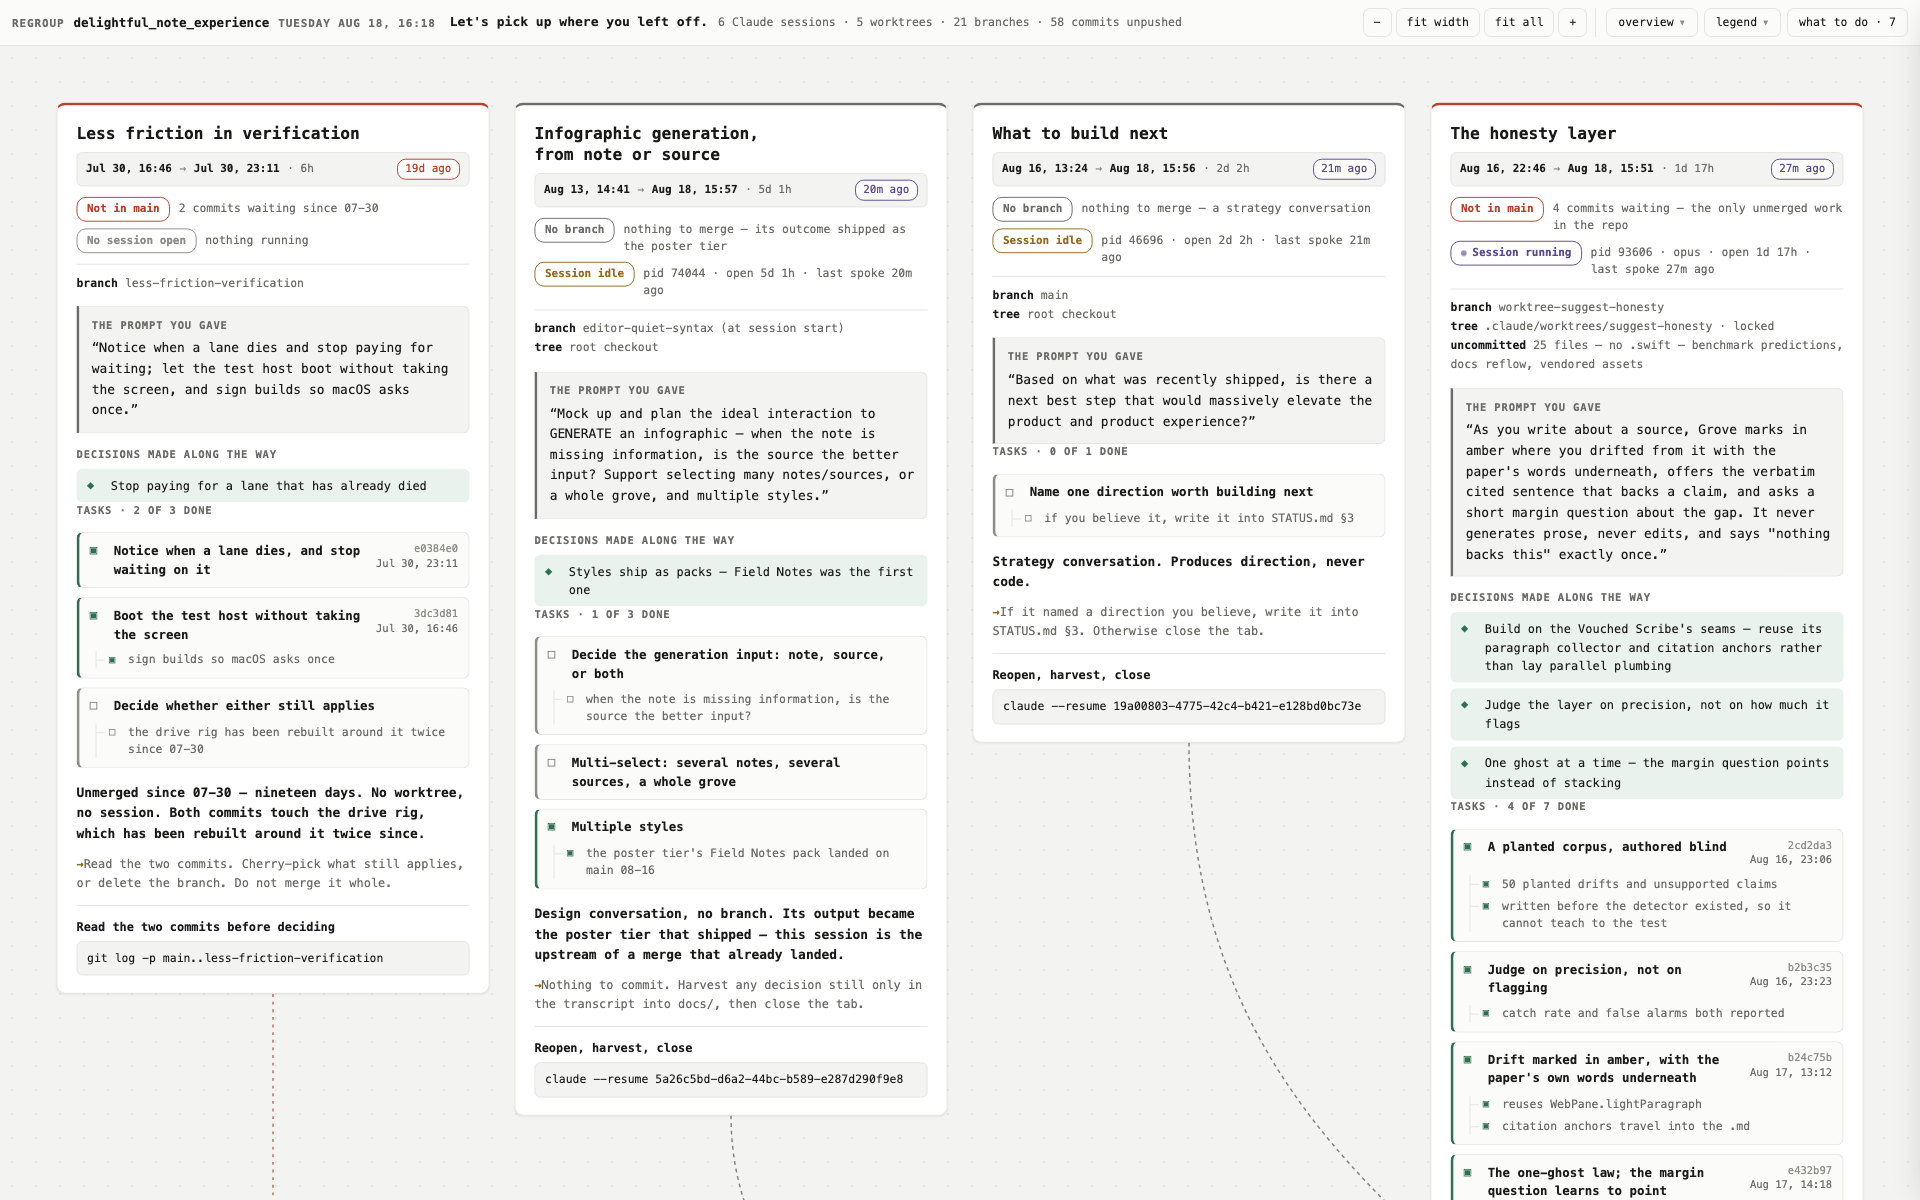
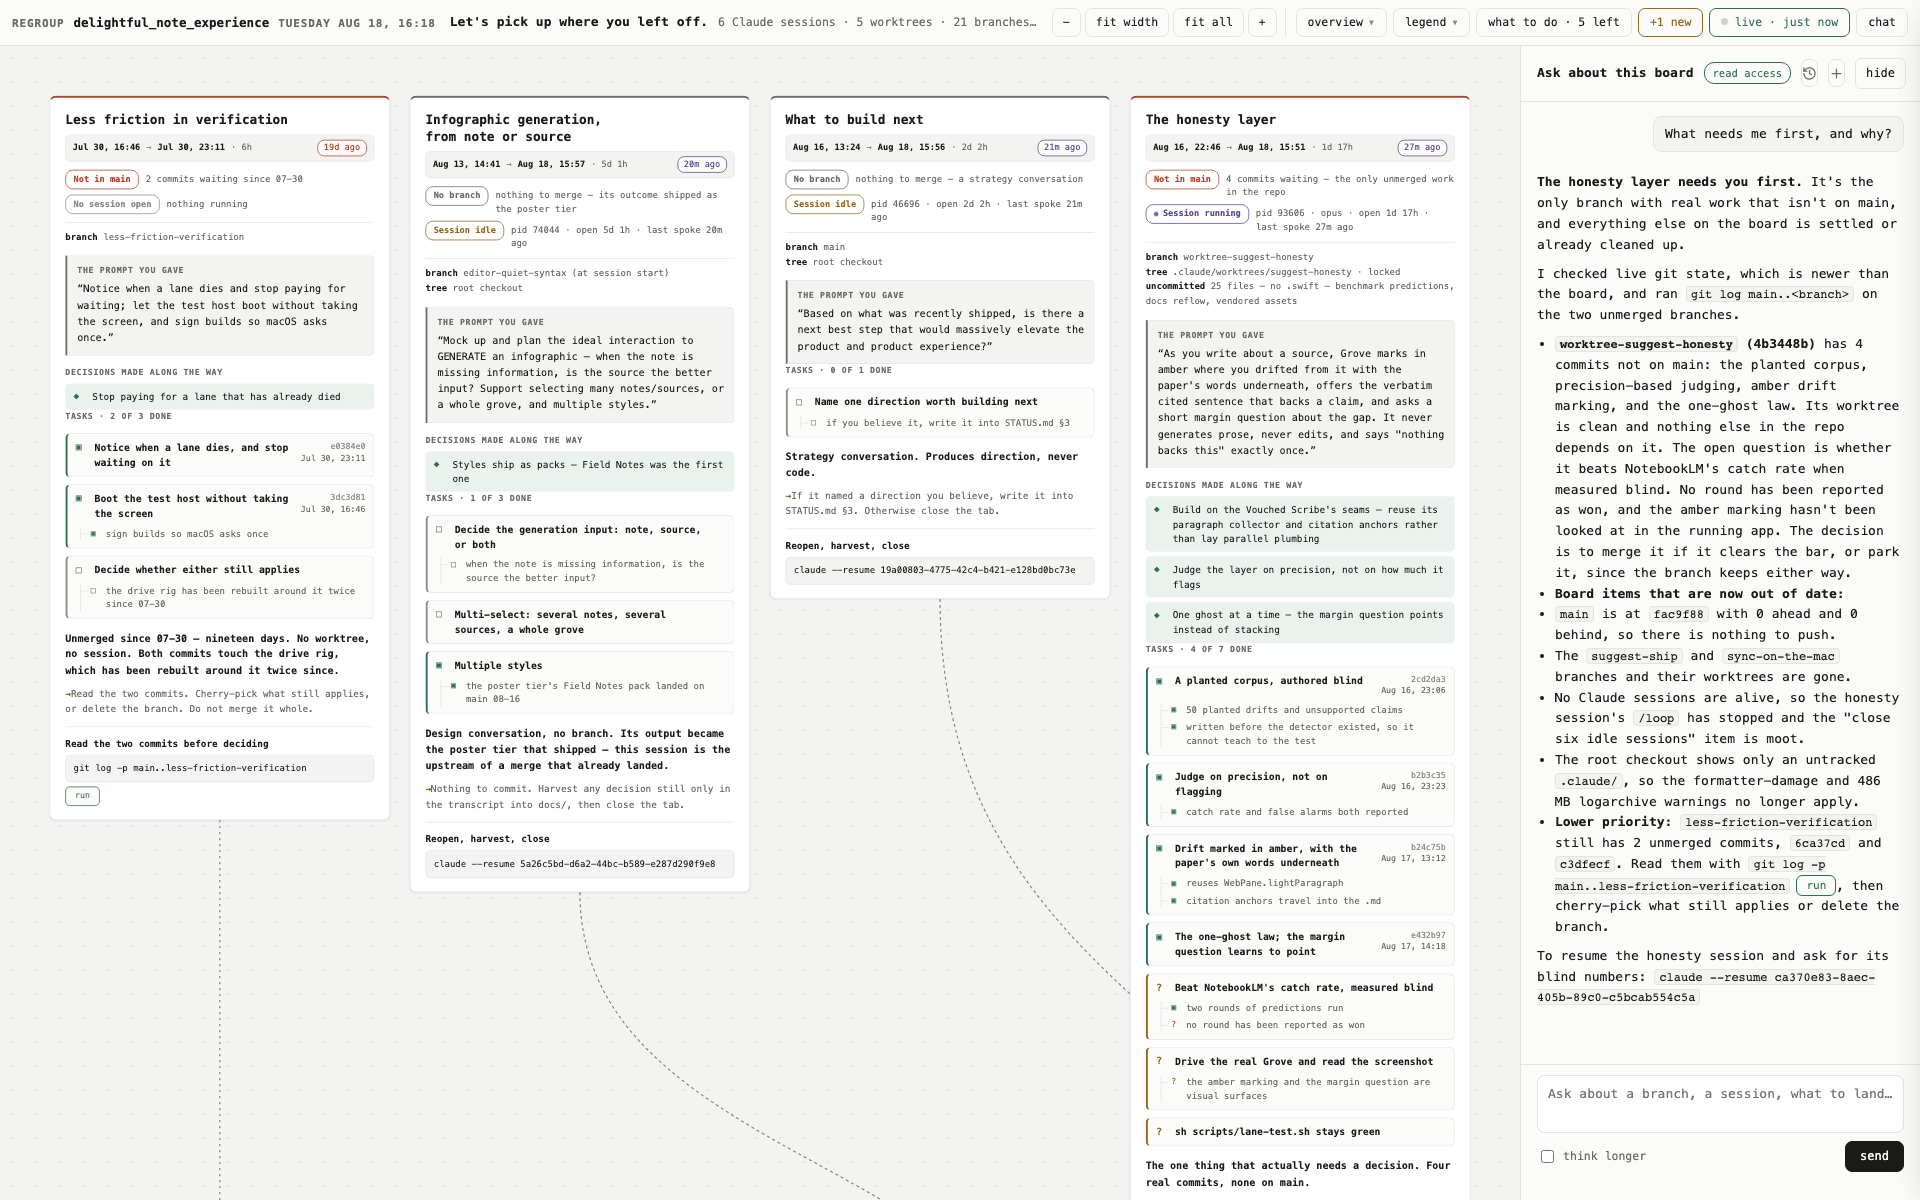
README: screenshots of the live board; fix two serve.py bugs
New screenshots show the board as /regroup serves it: run buttons, the
chat panel, the live and +N new indicators, the what-to-do drawer, and
hatched done cards. README text and alt text describe them.

Taking them turned up two bugs:
- A card's command was refused with "not a command on this board" when
  a branch name contained less, more or top (less-friction-verification).
  The pager and editor check now matches only at command position.
- A reopened saved chat showed the raw [[focus:<id>]] marker. The marker
  is now stripped before the chat is saved.

Both have tests.

diff --git a/tests/test_serve.py b/tests/test_serve.py
@@ -39,7 +39,9 @@ class Interactive(unittest.TestCase):
                     'git commit -m "x"',
                     "git cherry-pick origin/evals && git log -1 --format=%B | "
                     "grep -v -e Co-Authored-By -e Claude-Session | git commit --amend -F -",
-                    "git log --oneline -3 main"]:
+                    "git log --oneline -3 main",
+                    "git log -p main..less-friction-verification",
+                    "git branch -D more-tests top-bar"]:
             with self.subTest(cmd=cmd):
                 self.assertFalse(serve.interactive(cmd))
 
@@ -88,6 +90,20 @@ class BoardCommands(unittest.TestCase):
                                 {"act": {"cmd": "git show x:y | less"}},
                                 {}]}
         self.assertEqual(serve.runnable(data), {"git push origin main", "git branch -D list"})
+
+
+class SavedChats(unittest.TestCase):
+    """A reopened chat shows the answer as it was read, without the focus marker."""
+
+    def test_focus_marker_is_not_saved(self):
+        import json
+        import tempfile
+        with tempfile.TemporaryDirectory() as d:
+            board = Path(d) / "regroup.json"
+            serve.save_chat(board, "c1", [{"role": "user", "content": "What first?"}],
+                            "The honesty layer.\n\n[[focus:honesty]]")
+            saved = json.loads((Path(d) / "chats" / "c1.json").read_text())
+            self.assertEqual(saved["turns"][-1]["content"], "The honesty layer.")
 
 
 if __name__ == "__main__":

diff --git a/scripts/serve.py b/scripts/serve.py
@@ -52,7 +52,7 @@ CHAT_TOOLS = ["Read", "Grep", "Glob",
               "Bash(ls:*)", "Bash(wc:*)"]
 
 
-INTERACTIVE = re.compile(r"^claude\b|\b(less|more|vim?|nano|emacs|top|htop)\b|"
+INTERACTIVE = re.compile(r"^claude\b|(^|[|;&]\s*)(less|more|vim?|nano|emacs|top|htop)(\s|$)|"
                          r"git (rebase|add|checkout|reset|stash) (-i|-p|--interactive|--patch)\b|"
                          r"git commit(?!.*(\s-m|\s-F|--no-edit|--amend -F))")
 
@@ -316,7 +316,7 @@ def save_chat(board, chat_id, turns, answer):
     except (OSError, ValueError):
         old = {"id": cid, "started": int(time.time() * 1000)}
     old["turns"] = [{"role": t["role"], "content": t["content"]} for t in turns] + \
-                   [{"role": "assistant", "content": answer}]
+                   [{"role": "assistant", "content": re.sub(r"\s*\[\[focus:[\w-]+\]\]\s*", " ", answer).strip()}]
     old["title"] = next(t["content"] for t in old["turns"] if t["role"] == "user")[:90]
     old["updated"] = int(time.time() * 1000)
     f.write_text(json.dumps(old, indent=1))

diff --git a/README.md b/README.md
@@ -2,11 +2,11 @@
 
 <p align="center">
   <strong>Pick up where you left off.</strong><br>
-  Every branch, worktree and open Claude Code session in one canvas · what you asked for · whether it landed.
+  Every branch, worktree and open Claude Code session in one live canvas · what you asked for · whether it landed · run the next step from the page.
 </p>
 
 <p align="center">
-  <img src="docs/images/canvas-overview.png" alt="The regroup canvas: four open workstreams above a timeline rail, each showing the prompt that started it, the decisions made, and its tasks and subtasks." width="100%">
+  <img src="docs/images/canvas-overview.png" alt="The regroup board served locally: four open workstreams, each showing the prompt that started it, the decisions made and its tasks, with a run button under a card's command. The top bar shows +1 new and a live indicator; a chat panel on the right answers what needs attention first." width="100%">
 </p>
 
 `git branch` gives you a list of names. This gives you back your own head.
@@ -44,6 +44,8 @@ existed. The board then stays live, and it runs a command only when you click
 ```bash
 git clone https://github.com/seyonv/regroup ~/src/regroup
 python3 ~/src/regroup/scripts/collect.py /path/to/your/repo > state.json
+# write regroup.json from state.json (the skill does this), then:
+python3 ~/src/regroup/scripts/serve.py regroup.json
 ```
 
 Python 3.10+. Standard library only — no dependencies, no build step, nothing to
@@ -62,7 +64,8 @@ but no longer competing for your attention.
 
 The page **is** the canvas. Chrome is one 46px bar across the top and the canvas starts
 below it, so nothing is ever hidden behind a floating panel. Overview, legend and the
-actions drawer open from that bar on demand and dismiss when you touch the canvas.
+actions drawer open from that bar on demand and dismiss when you touch the canvas. The
+chat sits beside the canvas rather than over it, and hides from the same bar.
 
 ### Each card is the context you lost, in four shapes
 
@@ -107,6 +110,8 @@ corner of the canvas and still know exactly when.
 
 ### A live board, served locally
 
+<img src="docs/images/actions-drawer.png" alt="The what-to-do drawer: Push main to origin is struck through because the probe saw main pushed; the next actions have run buttons and mark-done ticks; Retire three finished worktrees is struck through because both branches are gone." width="30%" align="right">
+
 `/regroup` writes the board to `~/.claude/regroup/<repo>/` and opens it on
 `127.0.0.1` from a small standard-library server (`scripts/serve.py`). Leave it open:
 
@@ -129,13 +134,17 @@ corner of the canvas and still know exactly when.
   **+N new**, and work merged on GitHub as **↓N to pull**. Re-run `/regroup` to
   turn new work into cards.
 
+<br clear="right">
+
+<img src="docs/images/chat.png" alt="The chat panel answering What needs me first, and why? It lists the read-only git commands it ran, says the honesty layer needs attention first because its branch holds the only unmerged work, notes which board items are now out of date, and puts a run button beside a git log command. The board has flown to the honesty layer card." width="100%">
+
 Click any card to fly to it at reading size; click again or press Esc to fly back.
 Work from Claude Code cloud sessions (found through the branches they push) carries
 a blue **Claude Code cloud** badge.
 
 ### A control surface, not just a map
 
-<img src="docs/images/trunk-and-tombstones.png" alt="The lower half of the canvas: the main rail with eight merge nodes, tombstones for finished sessions hanging beneath them, and retired worktree cards with their removal commands." width="100%">
+<img src="docs/images/trunk-and-tombstones.png" alt="The lower half of the canvas: the main rail with eight merge nodes, tombstones for finished sessions hanging beneath them, and three retired worktree cards hatched and stamped Done, closed loop, kept for context, their removal commands struck through." width="100%">
 
 Every card carries the one command that acts on it, to copy or run:
 
@@ -167,7 +176,7 @@ matches them by **start time** — process elapsed time from `ps` against the
 transcript's first entry timestamp — claiming nearest-first so two sessions never
 take the same transcript.
 
-On the repo in these screenshots, all 7 processes matched within **4 seconds** of
+On the repo behind the example board, all 7 processes matched within **4 seconds** of
 their transcript's first message.
 
 Without this you can only guess which of six identical terminal tabs holds the work
@@ -199,7 +208,7 @@ reassuring sentence in the report and it is cheap to verify.
 ```
 scripts/collect.py <repo-root>          # facts -> JSON on stdout
 scripts/render.py  <data.json> <out.html>
-scripts/serve.py   <data.json>          # the live local board: probe, run, chat
+scripts/serve.py   <data.json> [--port N] [--no-open]   # the live local board: probe, run, chat
 scripts/probe_server.py                 # the same live probe as a stdio MCP server
 skills/regroup/SKILL.md                 # the workflow, schema, and design rules
 example/regroup.json                    # a real, complete board to copy from
